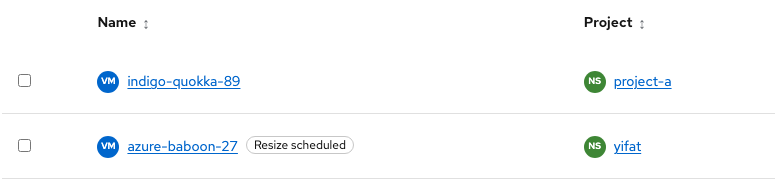
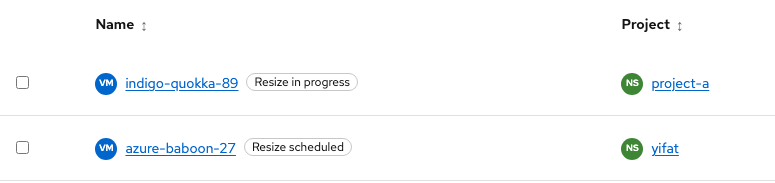
OSAC-4281: show resize progress before and after restart
Assisted-by: Cursor <cursoragent@cursor.com>

diff --git a/apps/app-frontend/public/vmaas-ux-prototype.html b/apps/app-frontend/public/vmaas-ux-prototype.html
@@ -8411,7 +8411,18 @@
         osFull: 'Red Hat Enterprise Linux 9.5',
         catalogItem: 'vm-inference-standard',
         imageLabel: 'RHEL 9.4',
-        computeResource: 'small',
+        computeResource: 'large',
+        activeComputeId: 'small',
+        resizeProgress: {
+          phase: 'hot', startedAtMs: Date.now() - 2 * 60000,
+          startedAt: new Date(Date.now() - 2 * 60000).toLocaleString('en-GB'),
+          lastUpdatedAt: new Date(Date.now() - 60000).toLocaleString('en-GB'),
+          changes: [
+            { section: 'Configuration', label: 'Instance type', from: 'small', to: 'large' },
+            { section: 'Configuration', label: 'vCPUs', from: '1 vCPU', to: '2 vCPUs' },
+            { section: 'Configuration', label: 'Memory', from: '2 GiB', to: '8 GiB' },
+          ],
+        },
         nics: [{
           name: 'tenant-workload',
           virtualNetwork: 'tenant-workload',
@@ -8436,7 +8447,7 @@
       { name: 'azure-baboon-27', ns: 'yifat', status: 'running', os: 'RHEL', osFull: 'Red Hat Enterprise Linux 9', imageLabel: 'RHEL 9.4', catalogItem: 'vm-inference-standard', conditions: ['DataVolumesReady=True', 'LiveMigratable=True', 'RestartRequired=True'], node: 'cnvge-079.lab.eng.thv2.redhat.com', ip: '10.130.1.223', created: '11 Feb 2026, 8:38', computeResource: 'large', activeComputeId: 'small', restartRequired: { message: 'The VM is still using its current configuration. Restart it to apply the resize.', changes: [{ section: 'Configuration', label: 'Instance type', from: 'small', to: 'large' }, { section: 'Configuration', label: 'vCPUs', from: '1 vCPU', to: '2 vCPUs' }, { section: 'Configuration', label: 'Memory', from: '2 GiB', to: '8 GiB' }] }, bootDiskAccessMode: 'RWO' },
       { name: 'rhel9-black-gunnysack-58', ns: 'project-a', status: 'running', os: 'RHEL', osFull: 'Red Hat Enterprise Linux 9', imageLabel: 'RHEL 9.4', catalogItem: 'vm-gpu-training-server', conditions: ['DataVolumesReady=True', 'Ready=True'], node: 'cnvge-080.lab.eng.thv2.redhat.com', ip: '10.130.1.224', created: '19 Jan 2026, 7:29', computeResource: 'large-gpu', gpuDevices: [{ name: 'NVIDIA A100 80 GB' }], hostDevices: [{ name: 'host-pci-1' }], sshSecretId: 'ssh-cluster-admin', cloudInitSource: 'inline', cloudInit: '#cloud-config\npackages:\n  - nginx\n', bootDiskAccessMode: 'RWO' },
       { name: 'windows-golden-eider-58', ns: 'project-a', status: 'stopped', os: 'Windows', osFull: 'Microsoft Windows Server 2022', imageLabel: 'Windows Server 2022', catalogItem: 'vm-windows-workstation', conditions: ['Ready=True'], node: 'cnvge-079.lab.eng.thv2.redhat.com', ip: '—', created: '11 Feb 2026, 9:48', sysprepConfigured: true, sysprepSecretId: 'sysprep-corp-std', bootDiskAccessMode: 'RWO' },
-      { name: 'fedora-aqua-barnacle-58', ns: 'yifat', status: 'running', os: 'Fedora', osFull: 'Fedora Linux 41', imageLabel: 'Fedora 41', catalogItem: 'vm-dev-workstation', conditions: ['DataVolumesReady=True', 'LiveMigratable=True'], node: 'cnvge-081.lab.eng.thv2.redhat.com', ip: '10.130.1.231', created: '11 Feb 2026, 8:49', hostDevices: [{ name: 'host-usb-1' }], sshSecretId: 'ssh-yifat-dev', cloudInitSource: 'secret', cloudInitSecretId: 'ud-fedora-init' },
+      { name: 'fedora-aqua-barnacle-58', ns: 'yifat', status: 'running', os: 'Fedora', osFull: 'Fedora Linux 41', imageLabel: 'Fedora 41', catalogItem: 'vm-dev-workstation', conditions: ['DataVolumesReady=True', 'LiveMigratable=True'], node: 'cnvge-081.lab.eng.thv2.redhat.com', ip: '10.130.1.231', created: '11 Feb 2026, 8:49', computeResource: 'large', activeComputeId: 'small', resizeProgress: { phase: 'after-restart', startedAtMs: Date.now() - 8 * 60000, startedAt: new Date(Date.now() - 8 * 60000).toLocaleString('en-GB'), lastUpdatedAt: new Date(Date.now() - 5 * 60000).toLocaleString('en-GB'), changes: [{ section: 'Configuration', label: 'Instance type', from: 'small', to: 'large' }, { section: 'Configuration', label: 'vCPUs', from: '1 vCPU', to: '2 vCPUs' }, { section: 'Configuration', label: 'Memory', from: '2 GiB', to: '8 GiB' }] }, hostDevices: [{ name: 'host-usb-1' }], sshSecretId: 'ssh-yifat-dev', cloudInitSource: 'secret', cloudInitSecretId: 'ud-fedora-init' },
       { name: 'rhel8-mystic-eagle-22', ns: 'vmaas', status: 'ErrorPvcNotFound', os: 'RHEL', osFull: 'Red Hat Enterprise Linux 8', imageLabel: 'RHEL 8.10', catalogItem: 'vm-legacy-app-server', conditions: ['Provisioning=False', 'Ready=False'], node: 'cnvge-080.lab.eng.thv2.redhat.com', ip: '—', created: '22 Jan 2026, 14:42', alerts: [{ severity: 'warning', message: 'Boot disk is unavailable' }, { severity: 'warning', message: 'Virtual machine is not Ready' }], bootDiskAccessMode: 'RWO' },
       { name: 'gpu-provisioning-failed', ns: 'project-a', status: 'starting', provisioningFailed: true, provisioningFailureReason: 'ProvisioningFailed', provisioningFailureMessage: 'AAP job failed', os: 'RHEL', osFull: 'Red Hat Enterprise Linux 9', imageLabel: 'RHEL 9.4', computeResource: 'small-gpu', conditions: ['PROVISIONED=False', 'ProvisioningFailed'], node: '—', ip: '—', created: '9 Nov 2026, 15:57' },
     ];
@@ -8811,10 +8822,17 @@
 
     function vmResizeScheduledLabelHtml(vm) {
       if (!vm?.activeComputeId) return '';
+      const applying = !!vm.resizeProgress;
+      const label = applying ? 'Resize in progress' : 'Resize scheduled';
+      const tooltip = applying
+        ? (vm.resizeProgress.phase === 'after-restart'
+          ? 'The VM has restarted. The new CPU and memory are still being applied.'
+          : 'The new CPU and memory are being applied without a restart.')
+        : 'Restart the VM to apply the new CPU and memory.';
       return `<button type="button" class="pf-v6-c-label pf-m-outline pf-m-grey pf-m-compact vm-resize-scheduled"
-        data-pf-tooltip="Restart the VM to apply the new CPU and memory.">
+        data-pf-tooltip="${tooltip}">
         <span class="pf-v6-c-label__content">
-          <span class="pf-v6-c-label__text">Resize scheduled</span>
+          <span class="pf-v6-c-label__text">${label}</span>
         </span>
       </button>`;
     }
@@ -8854,10 +8872,11 @@
     /** Enabled when RUNNING, PAUSED, or STOPPED; disabled STARTING / STOPPING / DELETING. */
     function canResizeVmInstanceType(vm) {
       const kind = vmPowerKind(vm?.status);
-      return kind === 'running' || kind === 'paused' || kind === 'stopped';
+      return !vm?.resizeProgress && (kind === 'running' || kind === 'paused' || kind === 'stopped');
     }
 
     function resizeVmInstanceTypeDisabledReason(vm) {
+      if (vm?.resizeProgress) return 'Resize is unavailable while a resize is in progress.';
       const kind = vmPowerKind(vm?.status);
       if (kind === 'starting') {
         return 'Resize is unavailable while the virtual machine is starting.';
@@ -8896,6 +8915,7 @@
      */
     function upsertVmRestartRequired(vm, { message, change } = {}) {
       if (!vm) return;
+      vm.lastResizeOutcome = null;
       const existing = vm.restartRequired && typeof vm.restartRequired === 'object'
         ? vm.restartRequired
         : null;
@@ -8924,10 +8944,55 @@
       upsertVmRestartRequired(vm, { message, change });
     }
 
-    function clearVmRestartRequired(vm) {
+    function vmResizeChanges(fromId, toId) {
+      const before = computeResourceSpecs(fromId);
+      const after = computeResourceSpecs(toId);
+      return [
+        { section: 'Configuration', label: 'Instance type', from: fromId, to: toId },
+        { section: 'Configuration', label: 'vCPUs', from: before.cpu, to: after.cpu },
+        { section: 'Configuration', label: 'Memory', from: before.mem, to: after.mem },
+      ];
+    }
+
+    function beginVmResizeApplying(vm, phase, changes) {
+      if (!vm) return;
+      vm.lastResizeOutcome = null;
+      const now = new Date();
+      const timestamp = now.toLocaleString('en-GB');
+      vm.resizeProgress = {
+        phase,
+        changes,
+        startedAt: timestamp,
+        lastUpdatedAt: timestamp,
+        startedAtMs: now.getTime(),
+        expanded: false,
+      };
+      vm.restartRequired = null;
+      if (Array.isArray(vm.conditions)) {
+        vm.conditions = vm.conditions.filter(c => !/RestartRequired/i.test(c));
+      }
+    }
+
+    const vmResizeCompletionTimers = new Map();
+
+    function scheduleVmResizeCompletion(vm) {
+      const previous = vmResizeCompletionTimers.get(vm.name);
+      if (previous) clearTimeout(previous);
+      const timer = setTimeout(() => {
+        completeVmResize(vm);
+        refreshVmStatusViews();
+        toast(`Resize completed for “${vm.name}”.`, 'success');
+        vmResizeCompletionTimers.delete(vm.name);
+      }, 15000);
+      vmResizeCompletionTimers.set(vm.name, timer);
+    }
+
+    function completeVmResize(vm) {
       if (!vm) return;
       vm.activeComputeId = null;
       vm.restartRequired = null;
+      vm.resizeProgress = null;
+      vm.lastResizeOutcome = { label: 'Resize completed', time: new Date().toLocaleString('en-GB') };
       if (Array.isArray(vm.conditions)) {
         vm.conditions = vm.conditions.filter(c => !/RestartRequired/i.test(c));
       }
@@ -8936,11 +9001,25 @@
       }
     }
 
-    function vmRestartRequiredAlertHtml(vm) {
-      const rr = vm?.restartRequired;
+    function vmResizeStatusAlertHtml(vm) {
+      const applying = !!vm?.resizeProgress;
+      const rr = applying ? vm.resizeProgress : vm?.restartRequired;
       if (!rr || !Array.isArray(rr.changes) || !rr.changes.length) return '';
       const expanded = rr.expanded === true;
-      const msg = String(rr.message || 'Changes apply after the virtual machine is restarted.').replace(/</g, '&lt;');
+      const title = applying ? 'Resize in progress'
+        : (rr.changes.some(c => c.label === 'Instance type') ? 'Restart required to apply resize' : 'Restart required');
+      const message = applying
+        ? (rr.phase === 'after-restart'
+          ? 'The VM has restarted. The requested configuration is still being applied.'
+          : 'The requested configuration is being applied without a restart.')
+        : (rr.message || 'Changes apply after the virtual machine is restarted.');
+      const msg = String(message).replace(/</g, '&lt;');
+      const elapsed = rr.elapsed || (rr.startedAtMs
+        ? `${Math.max(1, Math.floor((Date.now() - rr.startedAtMs) / 60000))} min`
+        : '<1 min');
+      const progressMeta = applying
+        ? `<p class="muted">Started ${String(rr.startedAt || 'just now').replace(/</g, '&lt;')} · Last updated ${String(rr.lastUpdatedAt || 'just now').replace(/</g, '&lt;')} · Elapsed <span data-resize-elapsed="${rr.startedAtMs || ''}">${String(elapsed).replace(/</g, '&lt;')}</span></p>`
+        : '';
       const changes = rr.changes.map(c => {
         const section = String(c.section || 'Details').replace(/</g, '&lt;');
         const label = String(c.label || 'Change').replace(/</g, '&lt;');
@@ -8951,11 +9030,11 @@
         return `<li>${changeLabel}${values}</li>`;
       }).join('');
       return `
-        <div class="vm-restart-required" id="vm-restart-required">
+        <div class="vm-restart-required" id="vm-resize-status">
           <div class="pf-v6-c-alert pf-m-inline pf-m-info pf-m-expandable ${expanded ? 'pf-m-expanded' : ''}" role="status">
             <div class="pf-v6-c-alert__toggle">
-              <button class="pf-v6-c-button pf-m-plain" type="button" data-vm-restart-alert-toggle
-                aria-label="Restart required details" aria-expanded="${expanded}" aria-controls="vm-restart-required-body">
+              <button class="pf-v6-c-button pf-m-plain" type="button" data-vm-resize-alert-toggle
+                aria-label="${title} details" aria-expanded="${expanded}" aria-controls="vm-resize-status-body">
                 <span class="pf-v6-c-button__icon"><span class="pf-v6-c-alert__toggle-icon">
                   <svg class="pf-v6-svg" fill="currentColor" viewBox="0 0 20 20" width="1em" height="1em" aria-hidden="true">
                     <path d="M18.71 5.29a.996.996 0 0 0-1.41 0l-7.29 7.29-7.3-7.29a.987.987 0 0 0-1.41-.02.987.987 0 0 0-.02 1.41l.02.02 7.65 7.65c.29.29.68.44 1.06.44s.77-.15 1.06-.44l7.65-7.65a.996.996 0 0 0 0-1.41Z" />
@@ -8964,11 +9043,12 @@
               </button>
             </div>
             <div class="pf-v6-c-alert__icon"><i class="fa-solid fa-circle-info" aria-hidden="true"></i></div>
-            <h4 class="pf-v6-c-alert__title">${rr.changes.some(c => c.label === 'Instance type') ? 'Restart required to apply resize' : 'Restart required'}</h4>
-            <div class="pf-v6-c-alert__description" id="vm-restart-required-body" ${expanded ? '' : 'hidden'}>
+            <h4 class="pf-v6-c-alert__title">${title}</h4>
+            <div class="pf-v6-c-alert__description" id="vm-resize-status-body" ${expanded ? '' : 'hidden'}>
               <div class="vm-restart-required__body">
                 <p>${msg}</p>
-                <p class="vm-restart-required__changes-label">Scheduled changes:</p>
+                ${progressMeta}
+                <p class="vm-restart-required__changes-label">${applying ? 'Requested changes:' : 'Scheduled changes:'}</p>
                 <ul class="vm-restart-required__changes">${changes}</ul>
               </div>
             </div>
@@ -9363,16 +9443,16 @@
       if (changed && (path === 'running' || path === 'paused')) vm.activeComputeId = activeId;
       applyComputeResourceToVm(vm, id);
       if (changed && (path === 'running' || path === 'paused')) {
-        // API status condition stand-in (CNV-style Overview banner).
-        markVmRestartRequiredChange(
-          vm,
-          { section: 'Configuration', label: 'Instance type', from: activeId, to: id, focus: 'instance-type' },
-          'The VM is still using its current configuration. Restart it to apply the resize.',
-        );
-        const before = computeResourceSpecs(activeId);
-        const after = computeResourceSpecs(id);
-        markVmRestartRequiredChange(vm, { section: 'Configuration', label: 'vCPUs', from: before.cpu, to: after.cpu });
-        markVmRestartRequiredChange(vm, { section: 'Configuration', label: 'Memory', from: before.mem, to: after.mem });
+        const changes = vmResizeChanges(activeId, id);
+        // Mock response: the real UI must use the API's operation and RestartRequired status.
+        if (vm.bootDiskAccessMode === 'RWX') {
+          beginVmResizeApplying(vm, 'hot', changes);
+          scheduleVmResizeCompletion(vm);
+        } else {
+          changes.forEach(change => markVmRestartRequiredChange(
+            vm, change, 'The VM is still using its current configuration. Restart it to apply the resize.',
+          ));
+        }
       }
       closeEditComputeModal();
       renderVmDetail();
@@ -9385,8 +9465,10 @@
         toast(`Instance type updated to ${label}. Resize will apply on next start.`, 'success');
         return;
       }
-      // Running / Paused: toast + Overview Restart required banner (API condition stand-in).
-      toast(`Instance type updated to ${label}.`, 'success');
+      // Running / Paused: the API response determines whether resize is applying or needs restart.
+      toast(vm.resizeProgress
+        ? `Resize to ${label} is in progress.`
+        : `Resize to ${label} is scheduled. Restart the VM to apply it.`, 'info');
     }
 
     function wireEditComputeModal() {
@@ -16220,6 +16302,13 @@
 
     let vmPowerActionTimer = null;
 
+    setInterval(() => {
+      document.querySelectorAll('[data-resize-elapsed]').forEach(el => {
+        const startedAt = Number(el.getAttribute('data-resize-elapsed'));
+        if (startedAt) el.textContent = `${Math.max(1, Math.floor((Date.now() - startedAt) / 60000))} min`;
+      });
+    }, 60000);
+
     function refreshVmStatusViews() {
       if (document.getElementById('view-vm')?.classList.contains('pf-m-active')) {
         renderVmDetail();
@@ -16258,29 +16347,32 @@
       }
       if (action === 'start') {
         if (vm.status === 'running' || vm.status === 'starting') return;
+        const pendingResize = vm.restartRequired?.changes;
+        if (pendingResize) beginVmResizeApplying(vm, 'after-restart', pendingResize);
         setVmStatus(name, 'starting');
         refreshVmStatusViews();
         toast(`Starting “${label}”…`);
         vmPowerActionTimer = setTimeout(() => {
           setVmStatus(name, 'running');
-          // Starting applies pending restart-required updates (same as CNV restart cycle).
-          clearVmRestartRequired(vm);
+          if (pendingResize) scheduleVmResizeCompletion(vm);
           refreshVmStatusViews();
-          toast(`“${label}” is Running.`, 'success');
+          toast(pendingResize ? `“${label}” is Running. Resize is still in progress.` : `“${label}” is Running.`, 'success');
           vmPowerActionTimer = null;
         }, 900);
         return;
       }
       if (action === 'restart') {
         if (vm.status !== 'running' && vm.status !== 'paused') return;
+        const pendingResize = vm.restartRequired?.changes;
+        if (pendingResize) beginVmResizeApplying(vm, 'after-restart', pendingResize);
         setVmStatus(name, 'starting');
         refreshVmStatusViews();
         toast(`Restarting “${label}”…`);
         vmPowerActionTimer = setTimeout(() => {
           setVmStatus(name, 'running');
-          clearVmRestartRequired(vm);
+          if (pendingResize) scheduleVmResizeCompletion(vm);
           refreshVmStatusViews();
-          toast(`“${label}” restarted.`, 'success');
+          toast(pendingResize ? `“${label}” restarted. Resize is still in progress.` : `“${label}” restarted.`, 'success');
           vmPowerActionTimer = null;
         }, 900);
       }
@@ -16769,7 +16861,7 @@
                 </div>
       `;
 
-      const restartRequiredHtml = vmRestartRequiredAlertHtml(v);
+      const resizeStatusHtml = vmResizeStatusAlertHtml(v);
       const provisioningFailureHtml = v.provisioningFailed ? `
         <div class="pf-v6-c-alert pf-m-inline pf-m-danger" role="alert">
           <div class="pf-v6-c-alert__icon"><i class="fa-solid fa-circle-exclamation" aria-hidden="true"></i></div>
@@ -16779,7 +16871,7 @@
       const body = `
         <div class="vm-overview-v2">
           <div class="vm-overview-v2__main">
-            ${restartRequiredHtml}
+            ${resizeStatusHtml}
             ${provisioningFailureHtml}
             <section class="vm-overview-v2__details" aria-label="Details">
               <div class="vm-overview-v2__detail-cols">
@@ -16972,7 +17064,9 @@
             </section>
             <section class="catalog-hw-specs vm-overview-v2__aside-card" aria-labelledby="vm-activity-title">
               <h3 class="catalog-hw-specs__title" id="vm-activity-title">Recent activity</h3>
-              <p class="vm-overview-v2__aside-empty muted">No recent activity</p>
+              ${v.lastResizeOutcome
+                ? `<p>${v.lastResizeOutcome.label}</p><p class="muted">${v.lastResizeOutcome.time}</p>`
+                : '<p class="vm-overview-v2__aside-empty muted">No recent activity</p>'}
             </section>
           </aside>
           </div>
@@ -17030,15 +17124,16 @@
           applyVmPowerAction(b.dataset.vmAction, v.name);
         });
       });
-      root.querySelector('[data-vm-restart-alert-toggle]')?.addEventListener('click', e => {
+      root.querySelector('[data-vm-resize-alert-toggle]')?.addEventListener('click', e => {
         const toggle = e.currentTarget;
         const alert = toggle.closest('.pf-v6-c-alert');
-        const description = alert?.querySelector('#vm-restart-required-body');
+        const description = alert?.querySelector('#vm-resize-status-body');
         const expanded = toggle.getAttribute('aria-expanded') !== 'true';
         toggle.setAttribute('aria-expanded', String(expanded));
         alert?.classList.toggle('pf-m-expanded', expanded);
         if (description) description.hidden = !expanded;
         if (v.restartRequired) v.restartRequired.expanded = expanded;
+        if (v.resizeProgress) v.resizeProgress.expanded = expanded;
       });
       root.querySelector('#vm-detail-actions-btn')?.addEventListener('click', e => {
           e.stopPropagation();

diff --git a/docs/osac-4281-vm-resize-handoff.md b/docs/osac-4281-vm-resize-handoff.md
@@ -7,7 +7,7 @@ UX Google Doc: https://docs.google.com/document/d/1kgln_LzTA3-VSP0SUM0jLce2Nvw0p
 Interactive mockup: https://osac-project.github.io/osac-ux/vmaas-ux-prototype.html?v=d94ee4a&role=admin&vm=azure-baboon-27
 Feature: [OSAC-4277](https://redhat.atlassian.net/browse/OSAC-4277)  
 Resize: [OSAC-4281](https://redhat.atlassian.net/browse/OSAC-4281)  
-Follow-up bugs: [OSAC-7576](https://redhat.atlassian.net/browse/OSAC-7576), [OSAC-7463](https://redhat.atlassian.net/browse/OSAC-7463), [OSAC-7582](https://redhat.atlassian.net/browse/OSAC-7582)
+Related work: [OSAC-7576](https://redhat.atlassian.net/browse/OSAC-7576), [OSAC-7463](https://redhat.atlassian.net/browse/OSAC-7463), [OSAC-7582](https://redhat.atlassian.net/browse/OSAC-7582), [OSAC-6578](https://redhat.atlassian.net/browse/OSAC-6578)
 
 ## Entry and availability
 
@@ -21,9 +21,17 @@ The modal has a required typeahead Instance type field and Save/Cancel actions. 
 
 A success toast confirms the saved request. For a Running or Paused VM that requires restart, show a persistent PF6 info notification at the top of VM Overview: **Restart required to apply resize**. Keep the VM's **active** instance type, vCPUs, and memory as the main configuration values, including the CPU and memory totals in Utilization. Under **Scheduled changes**, show current → requested values for instance type, vCPUs, and memory without repeating “Configuration” before each field. Use the expandable alert, collapsed by default to save vertical space. The title stays visible; expanding reveals the description and change list. New scheduled changes reset it to collapsed so the default layout remains compact. A Restart action in the notification is optional and depends on the supported VM action.
 
-On the VM list, retain the normal power status (for example, Running). Add a separate, neutral, outlined PatternFly 6 **Resize scheduled** label beside the VM name. Its tooltip says, “Restart the VM to apply the new CPU and memory.” Clear the info notification and label only when the new configuration is confirmed active. A Stopped VM's new size applies on its next start.
+On the VM list, retain the normal power status (for example, Running). Add a separate, neutral, outlined PatternFly 6 **Resize scheduled** label beside the VM name. Its tooltip says, “Restart the VM to apply the new CPU and memory.” A Stopped VM's new size applies on its next start.
 
-The API must expose or allow derivation of both active and requested configuration values and the restart-required condition. Backend acceptance of the update depends on OSAC-5328.
+## Resize in progress
+
+When the API reports that a resize is applying without a restart, keep **Running** as the VM power state and show a separate **Resize in progress** label in card and table views. Its tooltip says, “The new CPU and memory are being applied without a restart.” On VM Overview, use the same collapsed-by-default PF6 info notification with the title **Resize in progress**. When expanded, explain that no restart is needed, show the requested changes, and show when work started, when details last changed, and elapsed time. Keep the active instance type, CPU, and memory as the main values until the API confirms the new configuration is active. The mockup uses `indigo-quokka-89` for this state.
+
+After the user restarts a VM with a scheduled resize, remove **Restart required** and show **Resize in progress** while the resize is still applying, even if the VM power state has returned to **Running**. Its tooltip says, “The VM has restarted. The new CPU and memory are still being applied.” The expanded info notification explains that the restart happened and displays the requested changes and operation timing. Do not prompt for another restart. The mockup uses `fedora-aqua-barnacle-58` for this state; restarting `azure-baboon-27` also demonstrates the transition.
+
+Remove the progress label and info notification only when the API confirms completion. Then show the new instance type, CPU, and memory as active values and keep **Resize completed** in Recent activity until new VM work starts. Keep configuration progress separate from the VM power state, as required by OSAC-6578. These states require operation phase, timing, and active versus requested values from the API; the mockup timer only demonstrates completion and must not be used as production logic.
+
+The API must expose or allow derivation of both active and requested configuration values, the restart-required condition, and the resize operation phase. Backend acceptance of the update depends on OSAC-5328.
 
 ## Current mockup screenshots
 
@@ -38,6 +46,18 @@ The API must expose or allow derivation of both active and requested configurati
 **Resize scheduled tooltip in the VM table view.** Show it on hover or keyboard focus of the label.
 
 ![VM table Resize scheduled label with tooltip](screenshots/vm-resize/resize-scheduled-table-tooltip.png)
+
+**VM table with separate power and resize statuses.** `indigo-quokka-89` is applying without restart; `azure-baboon-27` needs restart; `fedora-aqua-barnacle-58` is still applying after restart.
+
+![VM table showing both resize progress cases and a scheduled resize](screenshots/vm-resize/resize-progress-table.png)
+
+**No-restart resize in progress.** The expanded info notification explains the operation while the main configuration remains active.
+
+![No-restart resize in progress on indigo-quokka-89](screenshots/vm-resize/resize-hot-in-progress.png)
+
+**Resize still in progress after restart.** The VM is Running; the operation is tracked separately.
+
+![Post-restart resize in progress on fedora-aqua-barnacle-58](screenshots/vm-resize/resize-post-restart-in-progress.png)
 
 **Expanded info notification showing scheduled changes and the active configuration on VM Overview.**
 
